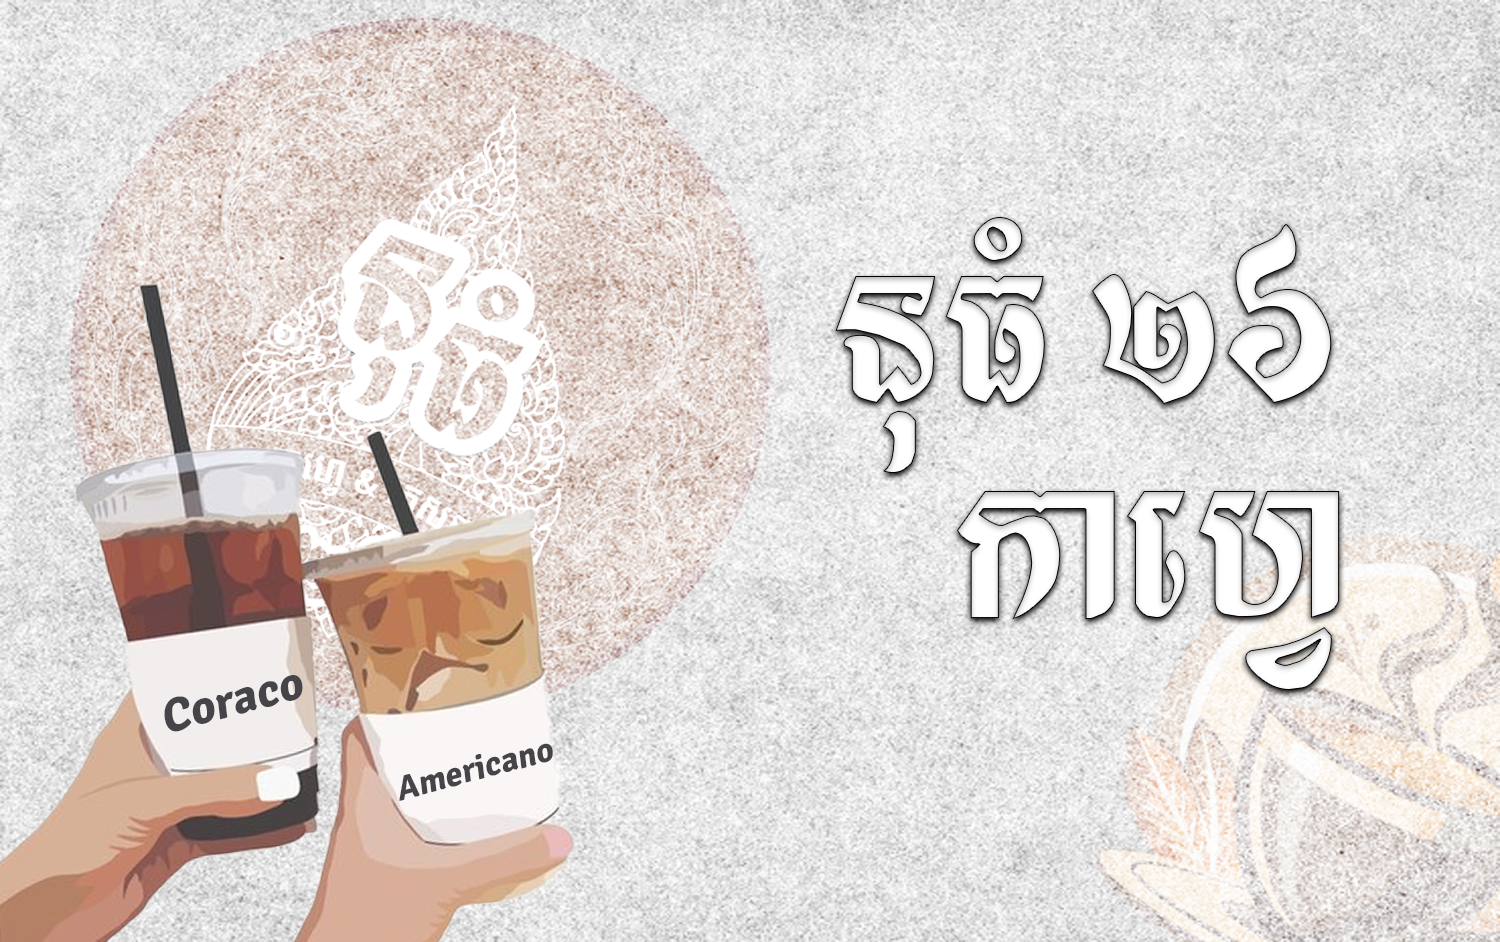
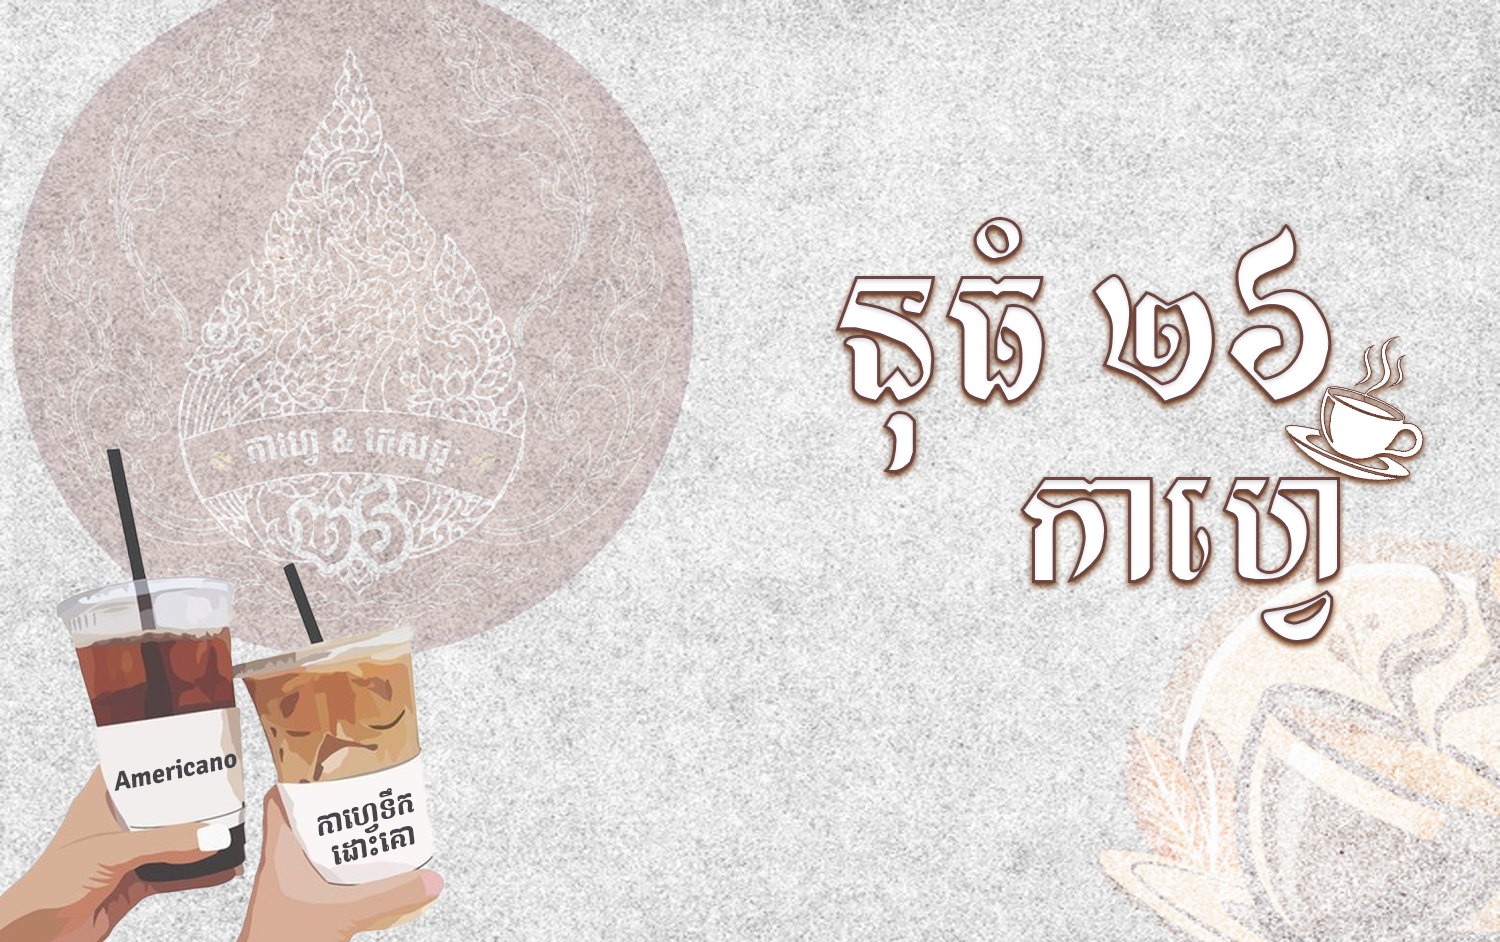
Initial commit

Changed region(s): [[0.0, 0.0, 0.5213, 1.0], [0.552, 0.2155, 0.9507, 0.7389]]

diff --git a/src/components/LocationPicker.tsx b/src/components/LocationPicker.tsx
@@ -175,12 +175,20 @@ export default function LocationPicker({
         <button
           onClick={useMyLocation}
           disabled={locating}
-          className="absolute bottom-4 right-4 z-[500] bg-white shadow-lg rounded-full px-3 py-2.5 text-xs font-medium text-[#148c78] flex items-center gap-1 disabled:opacity-60"
+          className="absolute bottom-6 right-6 z-[500] bg-white rounded-full flex items-center gap-2 font-semibold text-[#148c78] disabled:opacity-60
+                    /* Bigger Sizing */
+                    px-5 py-3.5 text-sm md:text-base shadow-xl
+                    /* Matching Teal/Cyan Stroke (Ring) & Subtle Shadow Glow */
+                    ring-2 ring-[#148c78] shadow-[0_0_15px_rgba(20,140,120,0.2)]
+                    /* Continuous Looping & Interactive Pop Animations */
+                    transition-all duration-200 ease-out
+                    hover:scale-105 active:scale-95 active:animate-none
+                    animate-[bounce_2s_infinite_ease-in-out]"
         >
           {locating ? (
-            <span className="w-3 h-3 border-2 border-[#148c78]/40 border-t-[#148c78] rounded-full animate-spin" />
+            <span className="w-4 h-4 border-2 border-[#148c78]/40 border-t-[#148c78] rounded-full animate-spin" />
           ) : (
-            "🎯"
+            <span className="text-base md:text-lg">🎯</span>
           )}
           ទីតាំងខ្ញុំ
         </button>

diff --git a/src/components/PriceTablePopup.tsx b/src/components/PriceTablePopup.tsx
@@ -241,7 +241,7 @@ export default function PriceTablePopup({ onClose }: { onClose: () => void }) {
     <img 
       src="https://raw.githubusercontent.com/shushialsin168-svg/mcstore/main/photo_2026-07-10_15-41-31.jpg" 
       alt="Facebook QR Code" 
-      className="w-[65px] h-[65px] object-contain bg-white p-1" 
+      className="w-[70px] h-[70px] object-contain bg-white p-1" 
     />
     <span className="font-black text-xs tracking-wide text-center">
       FACEBOOK.PAGE